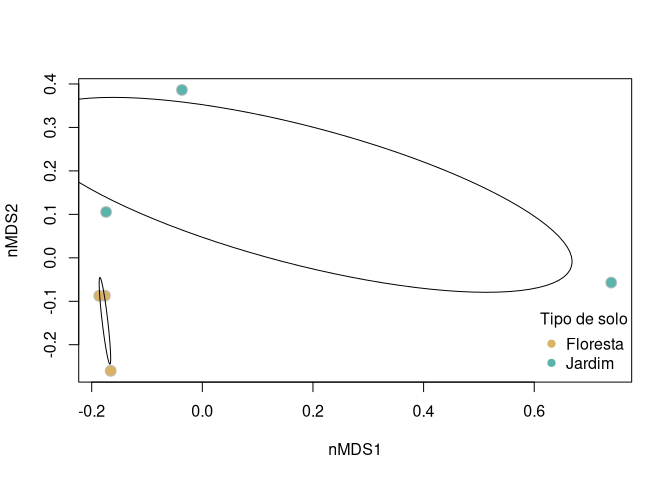
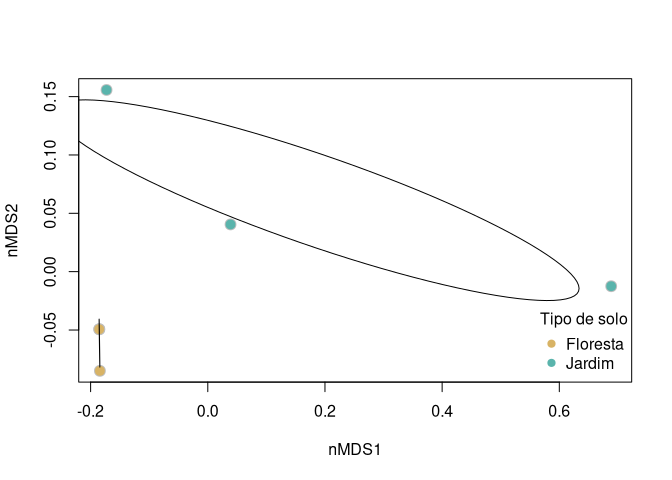
Correct bullet points

diff --git a/README.md b/README.md
@@ -514,48 +514,48 @@ nMDS <- metaMDS(nova_matriz)
     ## Square root transformation
     ## Wisconsin double standardization
     ## Run 0 stress 4.13728e-05 
-    ## Run 1 stress 7.792355e-05 
-    ## ... Procrustes: rmse 0.2609111  max resid 0.4810808 
-    ## Run 2 stress 8.467838e-05 
-    ## ... Procrustes: rmse 0.2237641  max resid 0.4536209 
-    ## Run 3 stress 7.455552e-05 
-    ## ... Procrustes: rmse 0.09994344  max resid 0.12487 
-    ## Run 4 stress 9.60531e-05 
-    ## ... Procrustes: rmse 0.2029334  max resid 0.4180155 
-    ## Run 5 stress 9.246433e-05 
-    ## ... Procrustes: rmse 0.2308413  max resid 0.4560496 
-    ## Run 6 stress 1.161177e-05 
+    ## Run 1 stress 9.773071e-05 
+    ## ... Procrustes: rmse 0.1756313  max resid 0.3245173 
+    ## Run 2 stress 9.491653e-05 
+    ## ... Procrustes: rmse 0.2325727  max resid 0.4582365 
+    ## Run 3 stress 2.57562e-05 
     ## ... New best solution
-    ## ... Procrustes: rmse 0.08032206  max resid 0.1315138 
-    ## Run 7 stress 0 
+    ## ... Procrustes: rmse 0.2199355  max resid 0.3929795 
+    ## Run 4 stress 9.409215e-05 
+    ## ... Procrustes: rmse 0.1762327  max resid 0.2246358 
+    ## Run 5 stress 9.735897e-05 
+    ## ... Procrustes: rmse 0.07550196  max resid 0.1291105 
+    ## Run 6 stress 5.430552e-05 
+    ## ... Procrustes: rmse 0.03531628  max resid 0.06644069 
+    ## Run 7 stress 9.633675e-05 
+    ## ... Procrustes: rmse 0.07121694  max resid 0.1206726 
+    ## Run 8 stress 9.331924e-05 
+    ## ... Procrustes: rmse 0.1201983  max resid 0.2085576 
+    ## Run 9 stress 9.821713e-05 
+    ## ... Procrustes: rmse 0.05481908  max resid 0.0851786 
+    ## Run 10 stress 9.111265e-05 
+    ## ... Procrustes: rmse 0.07550907  max resid 0.1294099 
+    ## Run 11 stress 9.020211e-05 
+    ## ... Procrustes: rmse 0.1864812  max resid 0.3326453 
+    ## Run 12 stress 9.998084e-05 
+    ## ... Procrustes: rmse 0.1826739  max resid 0.2683708 
+    ## Run 13 stress 9.266702e-05 
+    ## ... Procrustes: rmse 0.2073573  max resid 0.3456223 
+    ## Run 14 stress 9.908809e-05 
+    ## ... Procrustes: rmse 0.1930841  max resid 0.298936 
+    ## Run 15 stress 9.396399e-05 
+    ## ... Procrustes: rmse 0.07548915  max resid 0.1290573 
+    ## Run 16 stress 1.323824e-05 
     ## ... New best solution
-    ## ... Procrustes: rmse 0.1018502  max resid 0.2100494 
-    ## Run 8 stress 4.56584e-05 
-    ## ... Procrustes: rmse 0.1642582  max resid 0.2998489 
-    ## Run 9 stress 8.181737e-05 
-    ## ... Procrustes: rmse 0.07423409  max resid 0.1295417 
-    ## Run 10 stress 1.615977e-06 
-    ## ... Procrustes: rmse 0.2016702  max resid 0.380239 
-    ## Run 11 stress 5.627255e-05 
-    ## ... Procrustes: rmse 0.1192616  max resid 0.1800152 
-    ## Run 12 stress 9.625675e-05 
-    ## ... Procrustes: rmse 0.1083928  max resid 0.1761819 
-    ## Run 13 stress 1.061576e-05 
-    ## ... Procrustes: rmse 0.1159532  max resid 0.1922312 
-    ## Run 14 stress 9.244374e-05 
-    ## ... Procrustes: rmse 0.216497  max resid 0.4080098 
-    ## Run 15 stress 7.682814e-05 
-    ## ... Procrustes: rmse 0.1251158  max resid 0.1958773 
-    ## Run 16 stress 4.63153e-05 
-    ## ... Procrustes: rmse 0.1174873  max resid 0.1973034 
-    ## Run 17 stress 9.485527e-05 
-    ## ... Procrustes: rmse 0.08822841  max resid 0.1559866 
-    ## Run 18 stress 7.152949e-05 
-    ## ... Procrustes: rmse 0.08372714  max resid 0.1527429 
-    ## Run 19 stress 9.370475e-05 
-    ## ... Procrustes: rmse 0.1693213  max resid 0.3701862 
-    ## Run 20 stress 8.22077e-05 
-    ## ... Procrustes: rmse 0.1260262  max resid 0.2622662 
+    ## ... Procrustes: rmse 0.1237231  max resid 0.2125859 
+    ## Run 17 stress 9.631734e-05 
+    ## ... Procrustes: rmse 0.1408262  max resid 0.2243357 
+    ## Run 18 stress 3.542986e-05 
+    ## ... Procrustes: rmse 0.06475515  max resid 0.1301602 
+    ## Run 19 stress 6.51806e-05 
+    ## ... Procrustes: rmse 0.1857072  max resid 0.2865871 
+    ## Run 20 stress 7.765501e-05 
+    ## ... Procrustes: rmse 0.1370939  max resid 0.2295959 
     ## *** Best solution was not repeated -- monoMDS stopping criteria:
     ##     20: stress < smin
 
@@ -598,12 +598,12 @@ nMDS$points
 ```
 
     ##            MDS1        MDS2
-    ## SF1 -0.16565034 -0.26008496
-    ## SF2 -0.17618030 -0.08719807
-    ## SF3 -0.18642665 -0.08742133
-    ## SJ1  0.73913880 -0.05702096
-    ## SJ3 -0.17400367  0.10547421
-    ## SJ4 -0.03687785  0.38625111
+    ## SF1 -0.18415212 -0.08499041
+    ## SF2 -0.18507020 -0.04932975
+    ## SF3 -0.18534706 -0.04936849
+    ## SJ1  0.68857311 -0.01248088
+    ## SJ3 -0.17282257  0.15569735
+    ## SJ4  0.03881883  0.04047218
     ## attr(,"centre")
     ## [1] TRUE
     ## attr(,"pc")
@@ -611,7 +611,7 @@ nMDS$points
     ## attr(,"halfchange")
     ## [1] TRUE
     ## attr(,"internalscaling")
-    ## [1] 2.557032
+    ## [1] 3.047248
 
 As amostras SF2 e SF3 obtiveram resultados praticamente iguais em termos
 de composição da comunidade.
@@ -833,9 +833,15 @@ seq_genus
 
 ## Como poderemos calcular a accuracy? (Bónus - opcional)
 
-Para esse feito, teremos de contar quantas classificações foram: - TP
-(True Positive); - TN (True Negative); – não se vai aplicar - FP (False
-Positive); - FN (False Negative).
+Para esse feito, teremos de contar quantas classificações foram:
+
+-   TP (True Positive);
+
+-   TN (True Negative); – não se vai aplicar
+
+-   FP (False Positive);
+
+-   FN (False Negative).
 
 Se quisermos calcular accuracy:
 
